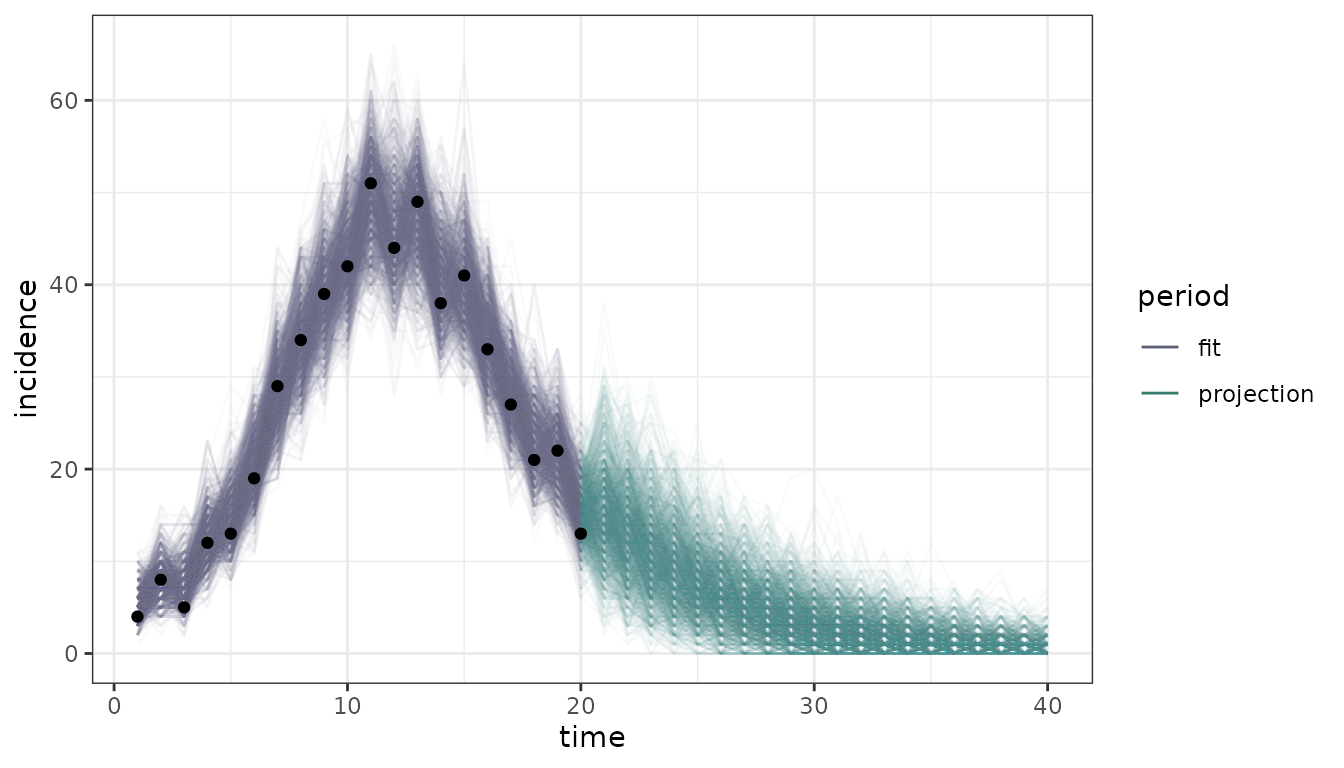
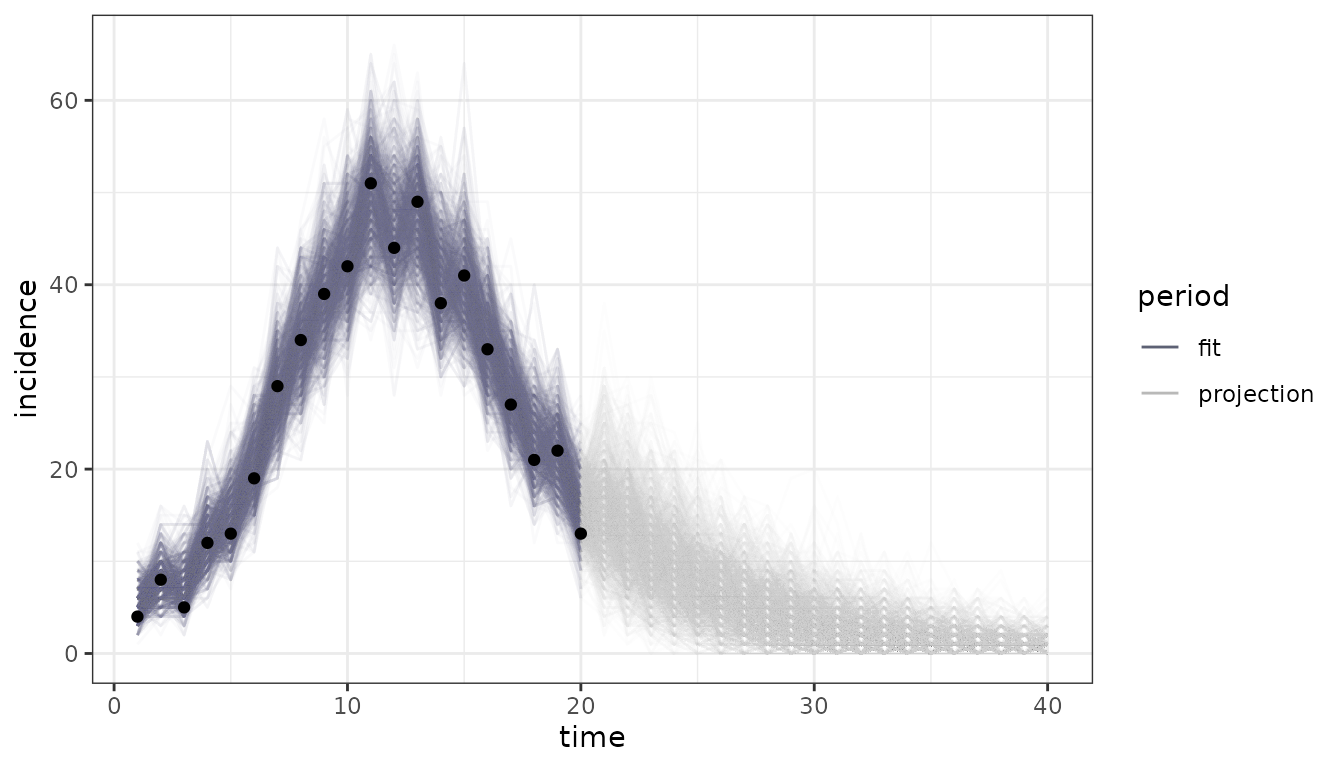
Deploying to gh-pages from @ mrc-ide/tidyodin@3422c4c72688b1d9081e1e678b31a7cdcba1838a 🚀

Changed region(s): [[0.4062, 0.5, 0.7812, 0.875], [0.8438, 0.5, 0.875, 0.5312]]

diff --git a/articles/parameter-sets.html b/articles/parameter-sets.html
@@ -257,24 +257,21 @@ the trajectories and the final state of each sample:</p>
 <span><span class="va">sampler</span> <span class="op">&lt;-</span> <span class="fu"><a href="https://mrc-ide.github.io/monty/reference/monty_sampler_random_walk.html" class="external-link">monty_sampler_random_walk</a></span><span class="op">(</span><span class="va">vcv</span><span class="op">)</span></span>
 <span><span class="va">samples</span> <span class="op">&lt;-</span> <span class="fu"><a href="https://mrc-ide.github.io/monty/reference/monty_sample.html" class="external-link">monty_sample</a></span><span class="op">(</span><span class="va">likelihood</span> <span class="op">+</span> <span class="va">prior</span>, <span class="va">sampler</span>, <span class="fl">3000</span>,</span>
 <span>                        initial <span class="op">=</span> <span class="fu"><a href="https://rdrr.io/r/base/c.html" class="external-link">c</a></span><span class="op">(</span><span class="fl">0.7</span>, <span class="fl">0.45</span><span class="op">)</span>, n_chains <span class="op">=</span> <span class="fl">3</span><span class="op">)</span></span>
-<span><span class="co">#&gt; ⡀  Sampling [<span style="color: #FFAF00;">▁</span>▁▁] <span style="color: #00BB00;">■                               </span> |   0% ETA: 46s</span></span>
-<span><span class="co">#&gt; ⠄  Sampling [<span style="color: #FFAF00;">▃</span>▁▁] <span style="color: #00BB00;">■■■■                            </span> |  10% ETA:  8s</span></span>
-<span><span class="co">#&gt; ⢂  Sampling [<span style="color: #00BB00;">█</span><span style="color: #FFAF00;">▂</span>▁] <span style="color: #00BB00;">■■■■■■■■■■■■■■                  </span> |  42% ETA:  5s</span></span>
-<span><span class="co">#&gt; ⡂  Sampling [<span style="color: #00BB00;">██</span><span style="color: #FFAF00;">▂</span>] <span style="color: #00BB00;">■■■■■■■■■■■■■■■■■■■■■■■         </span> |  74% ETA:  2s</span></span>
-<span><span class="co">#&gt; <span style="color: #00BB00;">✔</span> Sampled 9000 steps across 3 chains in 9.3s</span></span>
+<span><span class="co">#&gt; ⡀  Sampling [<span style="color: #FFAF00;">▁</span>▁▁] <span style="color: #00BB00;">■                               </span> |   0% ETA:  1m</span></span>
+<span><span class="co">#&gt; ⠄  Sampling [<span style="color: #FFAF00;">▄</span>▁▁] <span style="color: #00BB00;">■■■■■■                          </span> |  18% ETA:  9s</span></span>
+<span><span class="co">#&gt; ⢂  Sampling [<span style="color: #00BB00;">█</span><span style="color: #FFAF00;">▃</span>▁] <span style="color: #00BB00;">■■■■■■■■■■■■■■                  </span> |  44% ETA:  7s</span></span>
+<span><span class="co">#&gt; ⡂  Sampling [<span style="color: #00BB00;">██</span><span style="color: #FFAF00;">▁</span>] <span style="color: #00BB00;">■■■■■■■■■■■■■■■■■■■■■■          </span> |  69% ETA:  4s</span></span>
+<span><span class="co">#&gt; ⠅  Sampling [<span style="color: #00BB00;">██</span><span style="color: #FFAF00;">▇</span>] <span style="color: #00BB00;">■■■■■■■■■■■■■■■■■■■■■■■■■■■■■■  </span> |  96% ETA:  0s</span></span>
+<span><span class="co">#&gt; <span style="color: #00BB00;">✔</span> Sampled 9000 steps across 3 chains in 11.6s</span></span>
 <span><span class="co">#&gt; </span></span>
 <span><span class="va">samples</span> <span class="op">&lt;-</span> <span class="fu"><a href="https://mrc-ide.github.io/monty/reference/monty_samples_thin.html" class="external-link">monty_samples_thin</a></span><span class="op">(</span><span class="va">samples</span>, burnin <span class="op">=</span> <span class="fl">1000</span>, thinning_factor <span class="op">=</span> <span class="fl">5</span><span class="op">)</span></span>
 <span></span>
 <span><span class="va">fit</span> <span class="op">&lt;-</span> <span class="fu"><a href="../reference/tidy_trajectories.html">tidy_trajectories</a></span><span class="op">(</span><span class="va">samples</span>, <span class="va">filter</span>, vars <span class="op">=</span> <span class="st">"incidence"</span><span class="op">)</span></span></code></pre></div>
 <div class="sourceCode" id="cb10"><pre class="downlit sourceCode r">
-<code class="sourceCode R"><span><span class="va">nms_variable</span> <span class="op">&lt;-</span> <span class="fu"><a href="https://rdrr.io/r/base/c.html" class="external-link">c</a></span><span class="op">(</span><span class="st">"S"</span>, <span class="st">"I"</span>, <span class="st">"R"</span>, <span class="st">"incidence"</span><span class="op">)</span></span>
-<span><span class="va">cols_variable</span> <span class="op">&lt;-</span> <span class="fu"><a href="https://rdrr.io/pkg/MetBrewer/man/met.brewer.html" class="external-link">met.brewer</a></span><span class="op">(</span><span class="st">"Demuth"</span>, <span class="fu"><a href="https://rdrr.io/r/base/length.html" class="external-link">length</a></span><span class="op">(</span><span class="va">nms_variable</span><span class="op">)</span><span class="op">)</span></span>
-<span><span class="fu"><a href="https://rdrr.io/r/base/names.html" class="external-link">names</a></span><span class="op">(</span><span class="va">cols_variable</span><span class="op">)</span> <span class="op">&lt;-</span> <span class="va">nms_variable</span></span>
-<span></span>
-<span><span class="va">nms_scenario</span> <span class="op">&lt;-</span> <span class="fu"><a href="https://rdrr.io/r/base/c.html" class="external-link">c</a></span><span class="op">(</span><span class="st">"fit"</span>, <span class="st">"projection"</span>, <span class="st">"baseline"</span>, <span class="st">"30% lower transmission"</span><span class="op">)</span></span>
-<span><span class="va">cols_scenario</span> <span class="op">&lt;-</span> <span class="fu"><a href="https://rdrr.io/r/base/c.html" class="external-link">c</a></span><span class="op">(</span><span class="va">cols_variable</span><span class="op">[</span><span class="st">"incidence"</span><span class="op">]</span>,</span>
-<span>                   <span class="fu"><a href="https://rdrr.io/pkg/MetBrewer/man/met.brewer.html" class="external-link">met.brewer</a></span><span class="op">(</span><span class="st">"Kandinsky"</span><span class="op">)</span><span class="op">[</span><span class="fu"><a href="https://rdrr.io/r/base/c.html" class="external-link">c</a></span><span class="op">(</span><span class="fl">1</span>, <span class="fl">1</span>, <span class="fl">2</span><span class="op">)</span><span class="op">]</span><span class="op">)</span></span>
-<span><span class="fu"><a href="https://rdrr.io/r/base/names.html" class="external-link">names</a></span><span class="op">(</span><span class="va">cols_scenario</span><span class="op">)</span> <span class="op">&lt;-</span> <span class="va">nms_scenario</span></span></code></pre></div>
+<code class="sourceCode R"><span><span class="va">cols</span> <span class="op">&lt;-</span> <span class="fu"><a href="https://rdrr.io/pkg/MetBrewer/man/met.brewer.html" class="external-link">met.brewer</a></span><span class="op">(</span><span class="st">"Demuth"</span>, <span class="fl">5</span><span class="op">)</span></span>
+<span><span class="va">cols_scenario</span> <span class="op">&lt;-</span> <span class="fu"><a href="https://rdrr.io/r/base/c.html" class="external-link">c</a></span><span class="op">(</span><span class="st">"fit"</span> <span class="op">=</span> <span class="va">cols</span><span class="op">[</span><span class="fl">5</span><span class="op">]</span>, <span class="st">"baseline"</span> <span class="op">=</span> <span class="va">cols</span><span class="op">[</span><span class="fl">5</span><span class="op">]</span>,</span>
+<span>                   <span class="st">"projection"</span> <span class="op">=</span>  <span class="va">cols</span><span class="op">[</span><span class="fl">4</span><span class="op">]</span>,</span>
+<span>                  <span class="st">"30% lower transmission"</span> <span class="op">=</span> <span class="va">cols</span><span class="op">[</span><span class="fl">1</span><span class="op">]</span><span class="op">)</span></span></code></pre></div>
 <div class="section level3">
 <h3 id="continuing-a-fit">Continuing a fit<a class="anchor" aria-label="anchor" href="#continuing-a-fit"></a>
 </h3>
@@ -369,13 +366,12 @@ continues from its own fitted state:</p>
 <span>  .id <span class="op">=</span> <span class="st">"scenario"</span><span class="op">)</span></span>
 <span><span class="va">future</span><span class="op">$</span><span class="va">scenario</span> <span class="op">&lt;-</span> <span class="fu"><a href="https://rdrr.io/r/base/factor.html" class="external-link">factor</a></span><span class="op">(</span><span class="va">future</span><span class="op">$</span><span class="va">scenario</span>, <span class="fu"><a href="https://rdrr.io/r/base/unique.html" class="external-link">unique</a></span><span class="op">(</span><span class="va">future</span><span class="op">$</span><span class="va">scenario</span><span class="op">)</span><span class="op">)</span></span>
 <span></span>
-<span><span class="fu"><a href="https://ggplot2.tidyverse.org/reference/ggplot.html" class="external-link">ggplot</a></span><span class="op">(</span><span class="va">future</span>, <span class="fu"><a href="https://ggplot2.tidyverse.org/reference/aes.html" class="external-link">aes</a></span><span class="op">(</span><span class="va">time</span>, <span class="va">value</span><span class="op">)</span><span class="op">)</span> <span class="op">+</span></span>
-<span>  <span class="fu"><a href="https://ggplot2.tidyverse.org/reference/geom_path.html" class="external-link">geom_line</a></span><span class="op">(</span><span class="fu"><a href="https://ggplot2.tidyverse.org/reference/aes.html" class="external-link">aes</a></span><span class="op">(</span>group <span class="op">=</span> <span class="fu"><a href="https://rdrr.io/r/base/interaction.html" class="external-link">interaction</a></span><span class="op">(</span><span class="va">sample</span>, <span class="va">scenario</span><span class="op">)</span>, colour <span class="op">=</span> <span class="va">scenario</span><span class="op">)</span>,</span>
-<span>            alpha <span class="op">=</span> <span class="fl">0.03</span><span class="op">)</span> <span class="op">+</span></span>
-<span>  <span class="fu"><a href="https://ggplot2.tidyverse.org/reference/geom_point.html" class="external-link">geom_point</a></span><span class="op">(</span><span class="fu"><a href="https://ggplot2.tidyverse.org/reference/aes.html" class="external-link">aes</a></span><span class="op">(</span>y <span class="op">=</span> <span class="va">cases</span><span class="op">)</span>, data <span class="op">=</span> <span class="va">data</span><span class="op">)</span> <span class="op">+</span></span>
-<span>  <span class="fu"><a href="https://ggplot2.tidyverse.org/reference/scale_manual.html" class="external-link">scale_colour_manual</a></span><span class="op">(</span>values <span class="op">=</span> <span class="va">cols_scenario</span><span class="op">)</span> <span class="op">+</span></span>
-<span>  <span class="fu"><a href="https://ggplot2.tidyverse.org/reference/labs.html" class="external-link">labs</a></span><span class="op">(</span>y <span class="op">=</span> <span class="st">"incidence"</span><span class="op">)</span> <span class="op">+</span></span>
-<span>  <span class="fu"><a href="https://ggplot2.tidyverse.org/reference/guides.html" class="external-link">guides</a></span><span class="op">(</span>colour <span class="op">=</span> <span class="fu"><a href="https://ggplot2.tidyverse.org/reference/guide_legend.html" class="external-link">guide_legend</a></span><span class="op">(</span>override.aes <span class="op">=</span> <span class="fu"><a href="https://rdrr.io/r/base/list.html" class="external-link">list</a></span><span class="op">(</span>alpha <span class="op">=</span> <span class="fl">1</span><span class="op">)</span><span class="op">)</span><span class="op">)</span></span></code></pre></div>
+<span><span class="fu"><a href="https://ggplot2.tidyverse.org/reference/ggplot.html" class="external-link">ggplot</a></span><span class="op">(</span><span class="fu"><a href="../reference/summarise_trajectories.html">summarise_trajectories</a></span><span class="op">(</span><span class="va">future</span><span class="op">)</span>, <span class="fu"><a href="https://ggplot2.tidyverse.org/reference/aes.html" class="external-link">aes</a></span><span class="op">(</span><span class="va">time</span>, fill <span class="op">=</span> <span class="va">scenario</span><span class="op">)</span><span class="op">)</span> <span class="op">+</span></span>
+<span>  <span class="fu"><a href="https://ggplot2.tidyverse.org/reference/geom_ribbon.html" class="external-link">geom_ribbon</a></span><span class="op">(</span><span class="fu"><a href="https://ggplot2.tidyverse.org/reference/aes.html" class="external-link">aes</a></span><span class="op">(</span>ymin <span class="op">=</span> <span class="va">lower</span>, ymax <span class="op">=</span> <span class="va">upper</span><span class="op">)</span>, alpha <span class="op">=</span> <span class="fl">0.3</span><span class="op">)</span> <span class="op">+</span></span>
+<span>  <span class="fu"><a href="https://ggplot2.tidyverse.org/reference/geom_path.html" class="external-link">geom_line</a></span><span class="op">(</span><span class="fu"><a href="https://ggplot2.tidyverse.org/reference/aes.html" class="external-link">aes</a></span><span class="op">(</span>y <span class="op">=</span> <span class="va">median</span>, colour <span class="op">=</span> <span class="va">scenario</span><span class="op">)</span><span class="op">)</span> <span class="op">+</span></span>
+<span>  <span class="fu"><a href="https://ggplot2.tidyverse.org/reference/geom_point.html" class="external-link">geom_point</a></span><span class="op">(</span><span class="fu"><a href="https://ggplot2.tidyverse.org/reference/aes.html" class="external-link">aes</a></span><span class="op">(</span><span class="va">time</span>, <span class="va">cases</span><span class="op">)</span>, data <span class="op">=</span> <span class="va">data</span>, inherit.aes <span class="op">=</span> <span class="cn">FALSE</span><span class="op">)</span> <span class="op">+</span></span>
+<span>  <span class="fu"><a href="https://ggplot2.tidyverse.org/reference/scale_manual.html" class="external-link">scale_fill_manual</a></span><span class="op">(</span>values <span class="op">=</span> <span class="va">cols_scenario</span>, aesthetics <span class="op">=</span> <span class="fu"><a href="https://rdrr.io/r/base/c.html" class="external-link">c</a></span><span class="op">(</span><span class="st">"fill"</span>, <span class="st">"colour"</span><span class="op">)</span><span class="op">)</span> <span class="op">+</span></span>
+<span>  <span class="fu"><a href="https://ggplot2.tidyverse.org/reference/labs.html" class="external-link">labs</a></span><span class="op">(</span>y <span class="op">=</span> <span class="st">"incidence"</span><span class="op">)</span></span></code></pre></div>
 <p><img src="parameter-sets_files/figure-html/unnamed-chunk-15-1.png" class="r-plt" alt="" width="672"></p>
 <p>Parameters that are fixed in the packer, such as <code>N</code> here,
 can be changed for a counterfactual with the <code>fixed</code> argument

diff --git a/articles/tidyodin.html b/articles/tidyodin.html
@@ -233,10 +233,11 @@ mix:</p>
 <span><span class="va">samples</span> <span class="op">&lt;-</span> <span class="fu"><a href="https://mrc-ide.github.io/monty/reference/monty_sample.html" class="external-link">monty_sample</a></span><span class="op">(</span><span class="va">likelihood</span> <span class="op">+</span> <span class="va">prior</span>, <span class="va">sampler</span>, <span class="fl">3000</span>,</span>
 <span>                        initial <span class="op">=</span> <span class="fu"><a href="https://rdrr.io/r/base/c.html" class="external-link">c</a></span><span class="op">(</span><span class="fl">0.7</span>, <span class="fl">0.45</span><span class="op">)</span>, n_chains <span class="op">=</span> <span class="fl">3</span><span class="op">)</span></span>
 <span><span class="co">#&gt; ⡀  Sampling [<span style="color: #FFAF00;">▁</span>▁▁] <span style="color: #00BB00;">■                               </span> |   0% ETA:  1m</span></span>
-<span><span class="co">#&gt; ⠄  Sampling [<span style="color: #FFAF00;">▂</span>▁▁] <span style="color: #00BB00;">■■■                             </span> |   7% ETA:  9s</span></span>
-<span><span class="co">#&gt; ⢂  Sampling [<span style="color: #00BB00;">█</span><span style="color: #FFAF00;">▂</span>▁] <span style="color: #00BB00;">■■■■■■■■■■■■■                   </span> |  39% ETA:  6s</span></span>
-<span><span class="co">#&gt; ⡂  Sampling [<span style="color: #00BB00;">██</span><span style="color: #FFAF00;">▂</span>] <span style="color: #00BB00;">■■■■■■■■■■■■■■■■■■■■■■          </span> |  72% ETA:  3s</span></span>
-<span><span class="co">#&gt; <span style="color: #00BB00;">✔</span> Sampled 9000 steps across 3 chains in 9.2s</span></span>
+<span><span class="co">#&gt; ⠄  Sampling [<span style="color: #FFAF00;">▅</span>▁▁] <span style="color: #00BB00;">■■■■■■■                         </span> |  21% ETA:  9s</span></span>
+<span><span class="co">#&gt; ⢂  Sampling [<span style="color: #00BB00;">█</span><span style="color: #FFAF00;">▃</span>▁] <span style="color: #00BB00;">■■■■■■■■■■■■■■■                 </span> |  47% ETA:  6s</span></span>
+<span><span class="co">#&gt; ⡂  Sampling [<span style="color: #00BB00;">██</span><span style="color: #FFAF00;">▂</span>] <span style="color: #00BB00;">■■■■■■■■■■■■■■■■■■■■■■■         </span> |  73% ETA:  3s</span></span>
+<span><span class="co">#&gt; ⠅  Sampling [<span style="color: #00BB00;">██</span><span style="color: #FFAF00;">▇</span>] <span style="color: #00BB00;">■■■■■■■■■■■■■■■■■■■■■■■■■■■■■■■ </span> |  99% ETA:  0s</span></span>
+<span><span class="co">#&gt; <span style="color: #00BB00;">✔</span> Sampled 9000 steps across 3 chains in 11.5s</span></span>
 <span><span class="co">#&gt; </span></span>
 <span><span class="va">samples</span> <span class="op">&lt;-</span> <span class="fu"><a href="https://mrc-ide.github.io/monty/reference/monty_samples_thin.html" class="external-link">monty_samples_thin</a></span><span class="op">(</span><span class="va">samples</span>, burnin <span class="op">=</span> <span class="fl">1000</span>, thinning_factor <span class="op">=</span> <span class="fl">5</span><span class="op">)</span></span></code></pre></div>
 <p>Parameters, with chain and iteration recorded for trace plots:</p>

diff --git a/articles/parameter-sets.md b/articles/parameter-sets.md
@@ -228,11 +228,12 @@ vcv <- matrix(c(0.051, 0.040, 0.040, 0.035), 2, 2)
 sampler <- monty_sampler_random_walk(vcv)
 samples <- monty_sample(likelihood + prior, sampler, 3000,
                         initial = c(0.7, 0.45), n_chains = 3)
-#> ⡀  Sampling [▁▁▁] ■                                |   0% ETA: 46s
-#> ⠄  Sampling [▃▁▁] ■■■■                             |  10% ETA:  8s
-#> ⢂  Sampling [█▂▁] ■■■■■■■■■■■■■■                   |  42% ETA:  5s
-#> ⡂  Sampling [██▂] ■■■■■■■■■■■■■■■■■■■■■■■          |  74% ETA:  2s
-#> ✔ Sampled 9000 steps across 3 chains in 9.3s
+#> ⡀  Sampling [▁▁▁] ■                                |   0% ETA:  1m
+#> ⠄  Sampling [▄▁▁] ■■■■■■                           |  18% ETA:  9s
+#> ⢂  Sampling [█▃▁] ■■■■■■■■■■■■■■                   |  44% ETA:  7s
+#> ⡂  Sampling [██▁] ■■■■■■■■■■■■■■■■■■■■■■           |  69% ETA:  4s
+#> ⠅  Sampling [██▇] ■■■■■■■■■■■■■■■■■■■■■■■■■■■■■■   |  96% ETA:  0s
+#> ✔ Sampled 9000 steps across 3 chains in 11.6s
 #> 
 samples <- monty_samples_thin(samples, burnin = 1000, thinning_factor = 5)
 
@@ -241,14 +242,10 @@ fit <- tidy_trajectories(samples, filter, vars = "incidence")
 
 ``` r
 
-nms_variable <- c("S", "I", "R", "incidence")
-cols_variable <- met.brewer("Demuth", length(nms_variable))
-names(cols_variable) <- nms_variable
-
-nms_scenario <- c("fit", "projection", "baseline", "30% lower transmission")
-cols_scenario <- c(cols_variable["incidence"],
-                   met.brewer("Kandinsky")[c(1, 1, 2)])
-names(cols_scenario) <- nms_scenario
+cols <- met.brewer("Demuth", 5)
+cols_scenario <- c("fit" = cols[5], "baseline" = cols[5],
+                   "projection" =  cols[4],
+                  "30% lower transmission" = cols[1])
 ```
 
 ### Continuing a fit
@@ -364,13 +361,12 @@ future <- dplyr::bind_rows(
   .id = "scenario")
 future$scenario <- factor(future$scenario, unique(future$scenario))
 
-ggplot(future, aes(time, value)) +
-  geom_line(aes(group = interaction(sample, scenario), colour = scenario),
-            alpha = 0.03) +
-  geom_point(aes(y = cases), data = data) +
-  scale_colour_manual(values = cols_scenario) +
-  labs(y = "incidence") +
-  guides(colour = guide_legend(override.aes = list(alpha = 1)))
+ggplot(summarise_trajectories(future), aes(time, fill = scenario)) +
+  geom_ribbon(aes(ymin = lower, ymax = upper), alpha = 0.3) +
+  geom_line(aes(y = median, colour = scenario)) +
+  geom_point(aes(time, cases), data = data, inherit.aes = FALSE) +
+  scale_fill_manual(values = cols_scenario, aesthetics = c("fill", "colour")) +
+  labs(y = "incidence")
 ```
 
 ![](parameter-sets_files/figure-html/unnamed-chunk-15-1.png)

diff --git a/articles/tidyodin.md b/articles/tidyodin.md
@@ -196,10 +196,11 @@ sampler <- monty_sampler_random_walk(vcv)
 samples <- monty_sample(likelihood + prior, sampler, 3000,
                         initial = c(0.7, 0.45), n_chains = 3)
 #> ⡀  Sampling [▁▁▁] ■                                |   0% ETA:  1m
-#> ⠄  Sampling [▂▁▁] ■■■                              |   7% ETA:  9s
-#> ⢂  Sampling [█▂▁] ■■■■■■■■■■■■■                    |  39% ETA:  6s
-#> ⡂  Sampling [██▂] ■■■■■■■■■■■■■■■■■■■■■■           |  72% ETA:  3s
-#> ✔ Sampled 9000 steps across 3 chains in 9.2s
+#> ⠄  Sampling [▅▁▁] ■■■■■■■                          |  21% ETA:  9s
+#> ⢂  Sampling [█▃▁] ■■■■■■■■■■■■■■■                  |  47% ETA:  6s
+#> ⡂  Sampling [██▂] ■■■■■■■■■■■■■■■■■■■■■■■          |  73% ETA:  3s
+#> ⠅  Sampling [██▇] ■■■■■■■■■■■■■■■■■■■■■■■■■■■■■■■  |  99% ETA:  0s
+#> ✔ Sampled 9000 steps across 3 chains in 11.5s
 #> 
 samples <- monty_samples_thin(samples, burnin = 1000, thinning_factor = 5)
 ```
